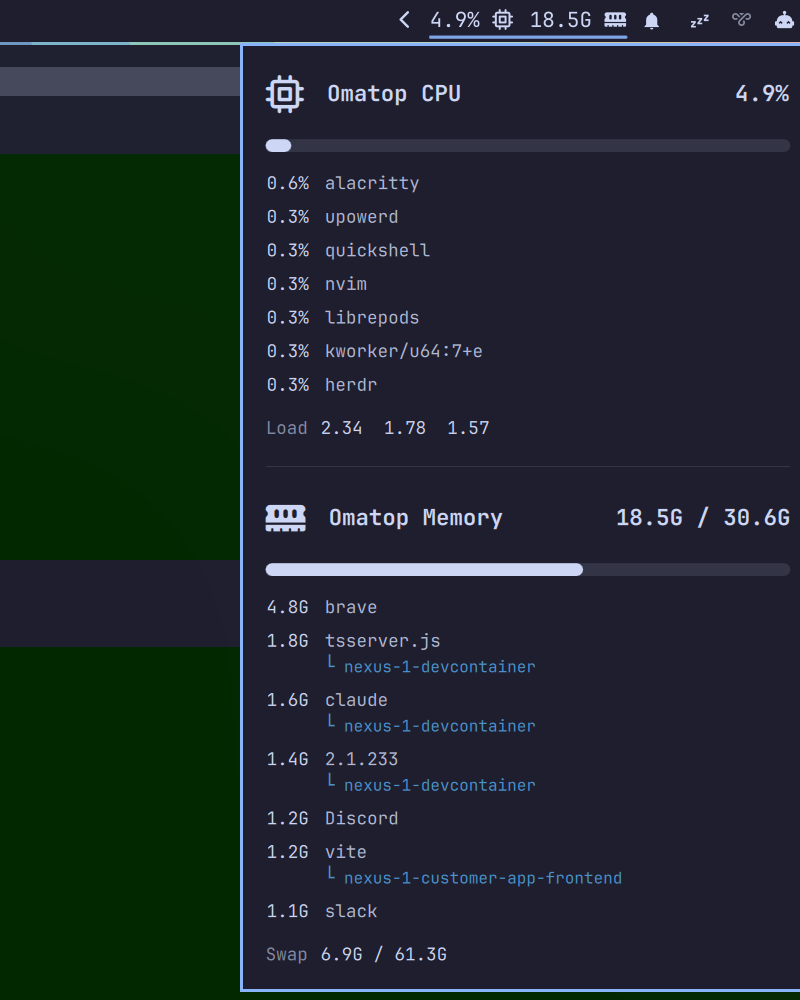
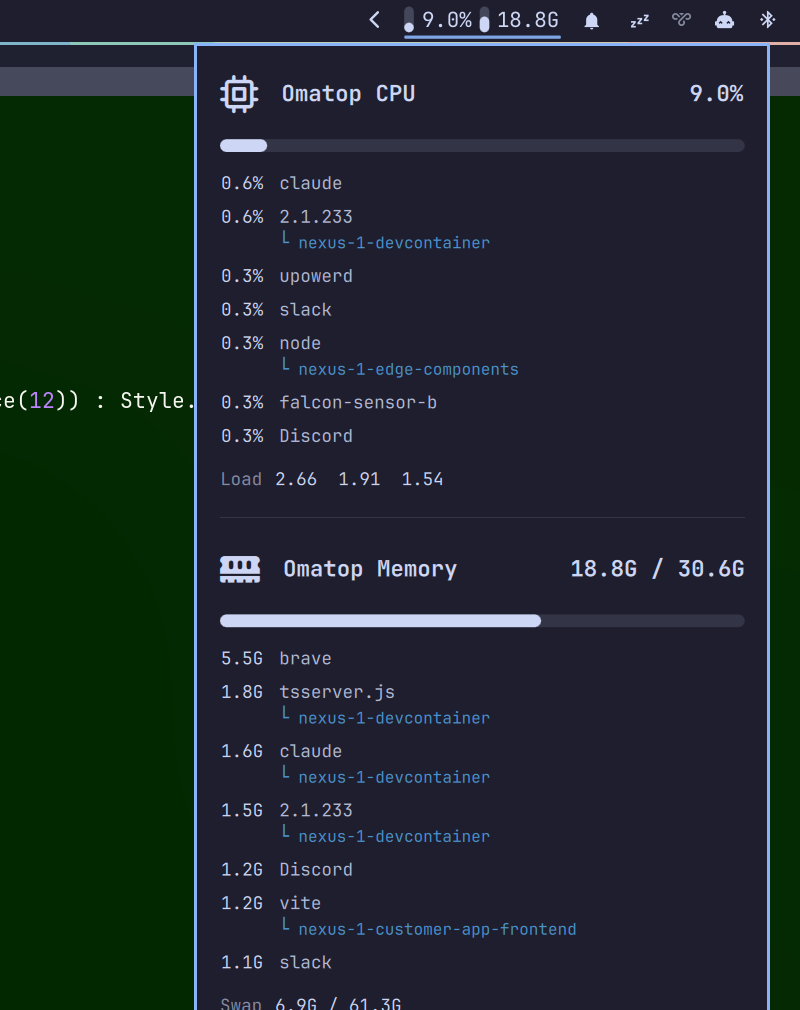
Draw CPU and memory level meters in the bar
The bar button now paints a small fill meter per metric next to its value
instead of a Nerd Font glyph: bottom-up on horizontal bars, left-to-right
on vertical ones, urgent-colored at 90% and above.

diff --git a/Panel.qml b/Panel.qml
@@ -22,10 +22,11 @@ Panel {
   property var cpu: Model.emptyStats()
   property var mem: Model.emptyStats()
 
-  // With the values shown the button paints a text block, so the open-panel
-  // mark takes the painted width of the whole label instead of the default
-  // fraction of the slot, which stops short of the last glyph.
-  readonly property real openPanelIndicatorWidth: showLabel && !button.vertical ? button.glyphPaintedWidth : 0
+  // The button paints meters and values, so the open-panel mark takes the
+  // painted extent of that content instead of the default fraction of the slot,
+  // which would stop short of it.
+  readonly property real openPanelIndicatorWidth: button.vertical ? 0 : Math.ceil(barContent.implicitWidth)
+  readonly property real openPanelIndicatorHeight: button.vertical ? Math.ceil(barContent.implicitHeight) : 0
 
   // Docker blue, fixed rather than themed — same tag color the Waybar modules
   // used, so a container row reads as a container row under any theme.
@@ -82,35 +83,94 @@ Panel {
   implicitWidth: button.implicitWidth
   implicitHeight: button.implicitHeight
 
-  TextMetrics {
-    id: labelMetrics
-    font.family: root.bar ? root.bar.fontFamily : Style.font.family
-    font.pixelSize: Style.bar.iconFont
-    text: button.text
-  }
-
-  BarIconButton {
+  // The bar button paints its own level meters rather than a glyph, so it uses
+  // WidgetButton directly (BarIconButton is glyph-shaped) with the label off.
+  WidgetButton {
     id: button
     anchors.fill: parent
     bar: root.bar
-    // Vertical bars have no room for two values, so they fall back to the CPU
-    // glyph alone and the popup carries the detail.
-    text: {
-      if (vertical || !root.showLabel) return Model.metricIcon("cpu")
-      var parts = []
-      if (root.cpu.text !== "") parts.push(root.cpu.text + " " + Model.metricIcon("cpu"))
-      if (root.mem.text !== "") parts.push(root.mem.text + " " + Model.metricIcon("memory"))
-      return parts.length > 0 ? parts.join("  ") : Model.metricIcon("cpu")
-    }
-    // The label is a text block wider than an icon, so the slot has to follow
-    // the measured text width or it bleeds into the next widget.
-    slotSize: root.showLabel && !vertical
-      ? Math.max(Style.bar.iconSlot, Math.ceil(labelMetrics.advanceWidth) + Style.space(12))
-      : Style.bar.iconSlot
+    labelVisible: false
+    hasVisualContent: true
+    fixedWidth: vertical ? -1 : Math.ceil(barContent.implicitWidth) + Style.space(12)
+    fixedHeight: vertical ? Math.ceil(barContent.implicitHeight) + Style.space(8) : -1
     tooltipText: ""
     onPressed: function(b) {
       if (b === Qt.RightButton) root.bar.run("omarchy-launch-or-focus-tui btop")
       else root.toggle()
+    }
+
+    // Horizontal bars get meter + value per metric side by side; vertical bars
+    // have no room for text, so they stack the two meters and let the popup
+    // carry the numbers.
+    Grid {
+      id: barContent
+      anchors.centerIn: parent
+      columns: button.vertical ? 1 : 4
+      rows: button.vertical ? 2 : 1
+      flow: Grid.LeftToRight
+      rowSpacing: Style.space(3)
+      columnSpacing: Style.space(5)
+
+      LevelMeter { fraction: Model.fraction(root.cpu.total) }
+
+      Text {
+        visible: !button.vertical && root.showLabel
+        text: root.cpu.text
+        color: root.bar ? root.bar.barForeground : Color.foreground
+        font.family: root.bar ? root.bar.fontFamily : Style.font.family
+        font.pixelSize: Style.bar.iconFont
+        renderType: Text.NativeRendering
+      }
+
+      LevelMeter { fraction: Model.fraction(root.mem.total) }
+
+      Text {
+        visible: !button.vertical && root.showLabel
+        text: root.mem.text
+        color: root.bar ? root.bar.barForeground : Color.foreground
+        font.family: root.bar ? root.bar.fontFamily : Style.font.family
+        font.pixelSize: Style.bar.iconFont
+        renderType: Text.NativeRendering
+      }
+    }
+  }
+
+  // A single level bar: fills bottom-up on a horizontal bar, left-to-right on a
+  // vertical one, and turns urgent once the resource is nearly exhausted.
+  component LevelMeter: Item {
+    id: meter
+
+    property real fraction: 0
+    readonly property bool horizontalFill: button.vertical
+    readonly property color fillColor: fraction >= 0.9
+      ? (root.bar ? root.bar.urgent : Color.urgent)
+      : (root.bar ? root.bar.barForeground : Color.foreground)
+
+    implicitWidth: horizontalFill ? Math.max(Style.space(16), button.barSize - Style.space(12)) : Style.space(6)
+    implicitHeight: horizontalFill ? Style.space(6) : Style.space(16)
+
+    Rectangle {
+      id: meterTrack
+      anchors.fill: parent
+      radius: Math.min(width, height) / 2
+      color: Qt.rgba(meter.fillColor.r, meter.fillColor.g, meter.fillColor.b, 0.22)
+    }
+
+    Rectangle {
+      anchors.left: meterTrack.left
+      anchors.bottom: meterTrack.bottom
+      width: meter.horizontalFill
+        ? Math.max(meterTrack.height, meterTrack.width * meter.fraction)
+        : meterTrack.width
+      height: meter.horizontalFill
+        ? meterTrack.height
+        : Math.max(meterTrack.width, meterTrack.height * meter.fraction)
+      radius: meterTrack.radius
+      color: meter.fillColor
+
+      Behavior on width { NumberAnimation { duration: 260; easing.type: Easing.OutCubic } }
+      Behavior on height { NumberAnimation { duration: 260; easing.type: Easing.OutCubic } }
+      Behavior on color { ColorAnimation { duration: 200 } }
     }
   }
 

diff --git a/README.md b/README.md
@@ -3,7 +3,7 @@
 An Omarchy bar widget that shows CPU and memory usage side by side and, in its
 popup, which processes are actually eating them.
 
-- **CPU and memory in one widget** — both values in the bar, both process lists in one popup
+- **CPU and memory in one widget** — a level meter and value for each in the bar, both process lists in one popup
 - **Per-process breakdown** — the top consumers per metric, aggregated by process name
 - **Docker-aware** — processes inside containers show the container name underneath
 - **Smart process names** — resolves unhelpful names like `MainThread`, Nix wrappers, and generic interpreters to the real application
@@ -31,7 +31,7 @@ Settings live in the widget's `shell.json` layout entry:
 |---|---|---|---|
 | `processCount` | integer 1–20 | `7` | How many processes the popup lists per metric |
 | `refreshIntervalSec` | integer 1–60 | `3` | How often stats are sampled |
-| `showLabel` | boolean | `true` | Show the values next to the icons (horizontal bars only) |
+| `showLabel` | boolean | `true` | Show the values next to the meters (horizontal bars only) |
 
 ```json
 {
@@ -44,6 +44,14 @@ Settings live in the widget's `shell.json` layout entry:
   }
 }
 ```
+
+## The bar readout
+
+Each metric gets a small level meter that fills with its usage — bottom-up on a
+horizontal bar, left-to-right on a vertical one — and turns the theme's urgent
+color at 90% and above. Horizontal bars print the value next to each meter
+(`showLabel`); vertical bars show the two meters alone and leave the numbers to
+the popup.
 
 ## Interactions
 
